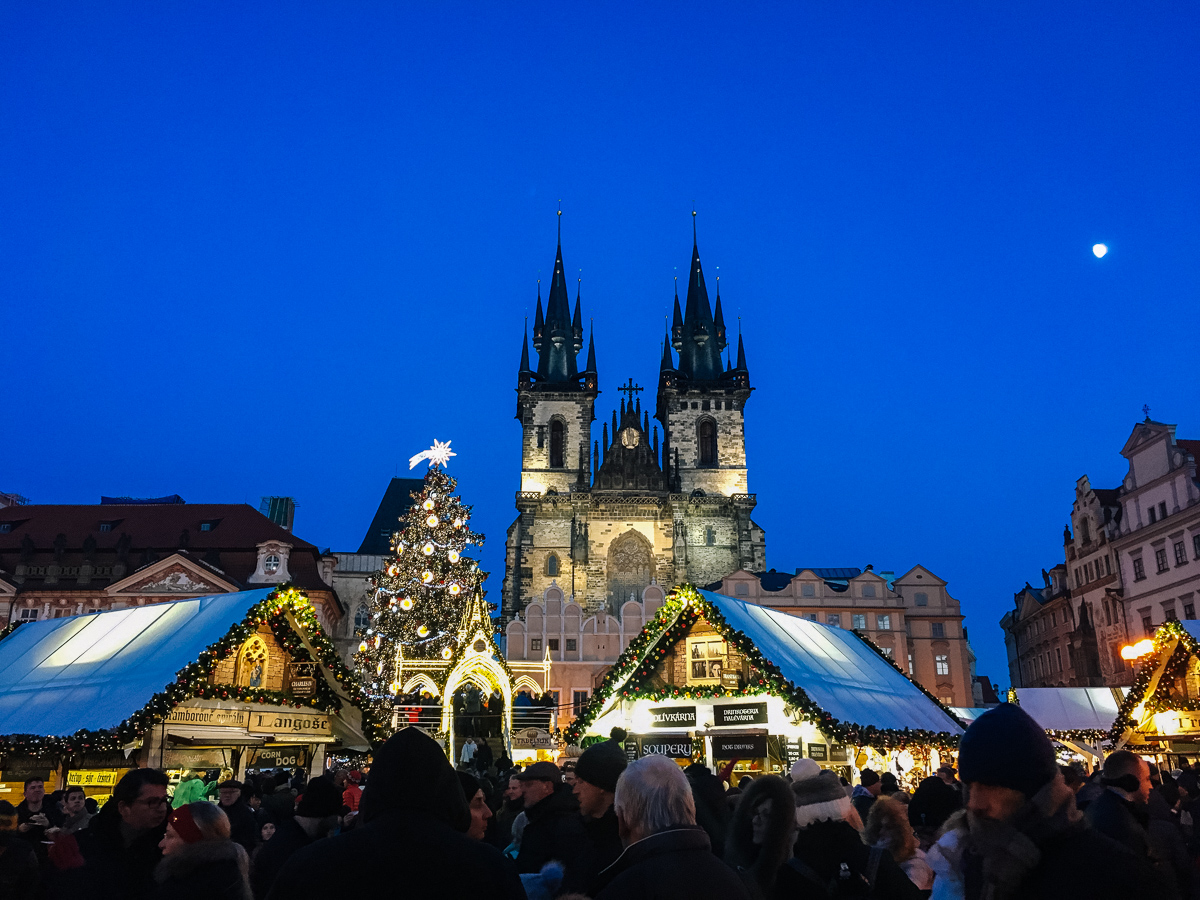
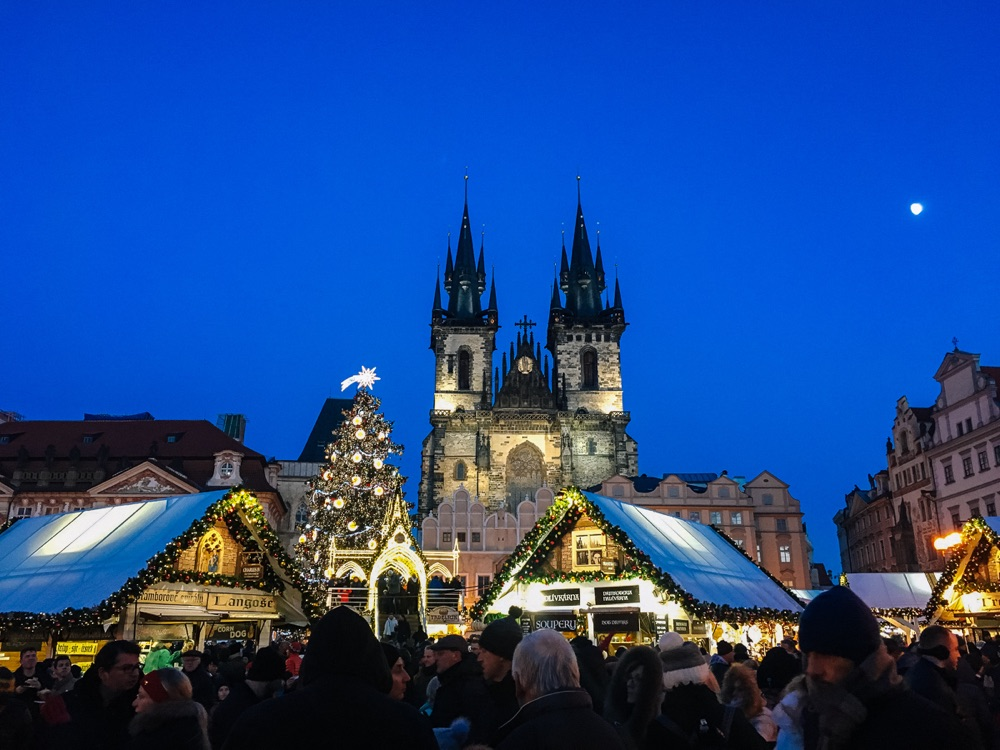
Praha - photos

diff --git a/praha.html b/praha.html
@@ -44,7 +44,7 @@
         </div>
         <div class="navlinks col-xs-12 col-sm-9 end-sm">
             <ul>
-                <li><a href="about.html">About me</a></li>
+                <!--<li><a href="about.html">About me</a></li>-->
                 <li><a href="https://www.instagram.com/lotsosivak/" target="_blank">Instagram</a></li>
                 <li><a href="mailto:lotsosivak@gmai1.com?subject=Hi, Lotso Sivak!">Say hi!</a></li>
             </ul>
@@ -123,7 +123,7 @@
         
         <div class="row middle-xs wow fadeIn">
             <div class="col-xs-6 col-sm-7 left">
-                <img src="img/travel/praha/IMG_2010.jpg">
+                <img src="img/travel/praha/IMG_2011.jpg">
             </div>
             <div class="col-xs-6 col-sm-5 right">
                 <img src="img/travel/praha/IMG_20171229_132309_129.jpg">

diff --git a/bratislava.html b/bratislava.html
@@ -44,7 +44,7 @@
         </div>
         <div class="navlinks col-xs-12 col-sm-9 end-sm">
             <ul>
-                <li><a href="about.html">About me</a></li>
+                <!--<li><a href="about.html">About me</a></li>-->
                 <li><a href="https://www.instagram.com/lotsosivak/" target="_blank">Instagram</a></li>
                 <li><a href="mailto:lotsosivak@gmai1.com?subject=Hi, Lotso Sivak!">Say hi!</a></li>
             </ul>

diff --git a/gyor.html b/gyor.html
@@ -44,7 +44,7 @@
         </div>
         <div class="navlinks col-xs-12 col-sm-9 end-sm">
             <ul>
-                <li><a href="about.html">About me</a></li>
+                <!--<li><a href="about.html">About me</a></li>-->
                 <li><a href="https://www.instagram.com/lotsosivak/" target="_blank">Instagram</a></li>
                 <li><a href="mailto:lotsosivak@gmai1.com?subject=Hi, Lotso Sivak!">Say hi!</a></li>
             </ul>

diff --git a/index.html b/index.html
@@ -44,7 +44,7 @@
         </div>
         <div class="navlinks col-xs-12 col-sm-9 end-sm">
             <ul>
-                <li><a href="about.html">About me</a></li>
+                <!--<li><a href="about.html">About me</a></li>-->
                 <li><a href="https://www.instagram.com/lotsosivak/" target="_blank">Instagram</a></li>
                 <li><a href="mailto:lotsosivak@gmai1.com?subject=Hi, Lotso Sivak!">Say hi!</a></li>
             </ul>

diff --git a/nitra.html b/nitra.html
@@ -44,7 +44,7 @@
         </div>
         <div class="navlinks col-xs-12 col-sm-9 end-sm">
             <ul>
-                <li><a href="about.html">About me</a></li>
+                <!--<li><a href="about.html">About me</a></li>-->
                 <li><a href="https://www.instagram.com/lotsosivak/" target="_blank">Instagram</a></li>
                 <li><a href="mailto:lotsosivak@gmai1.com?subject=Hi, Lotso Sivak!">Say hi!</a></li>
             </ul>
